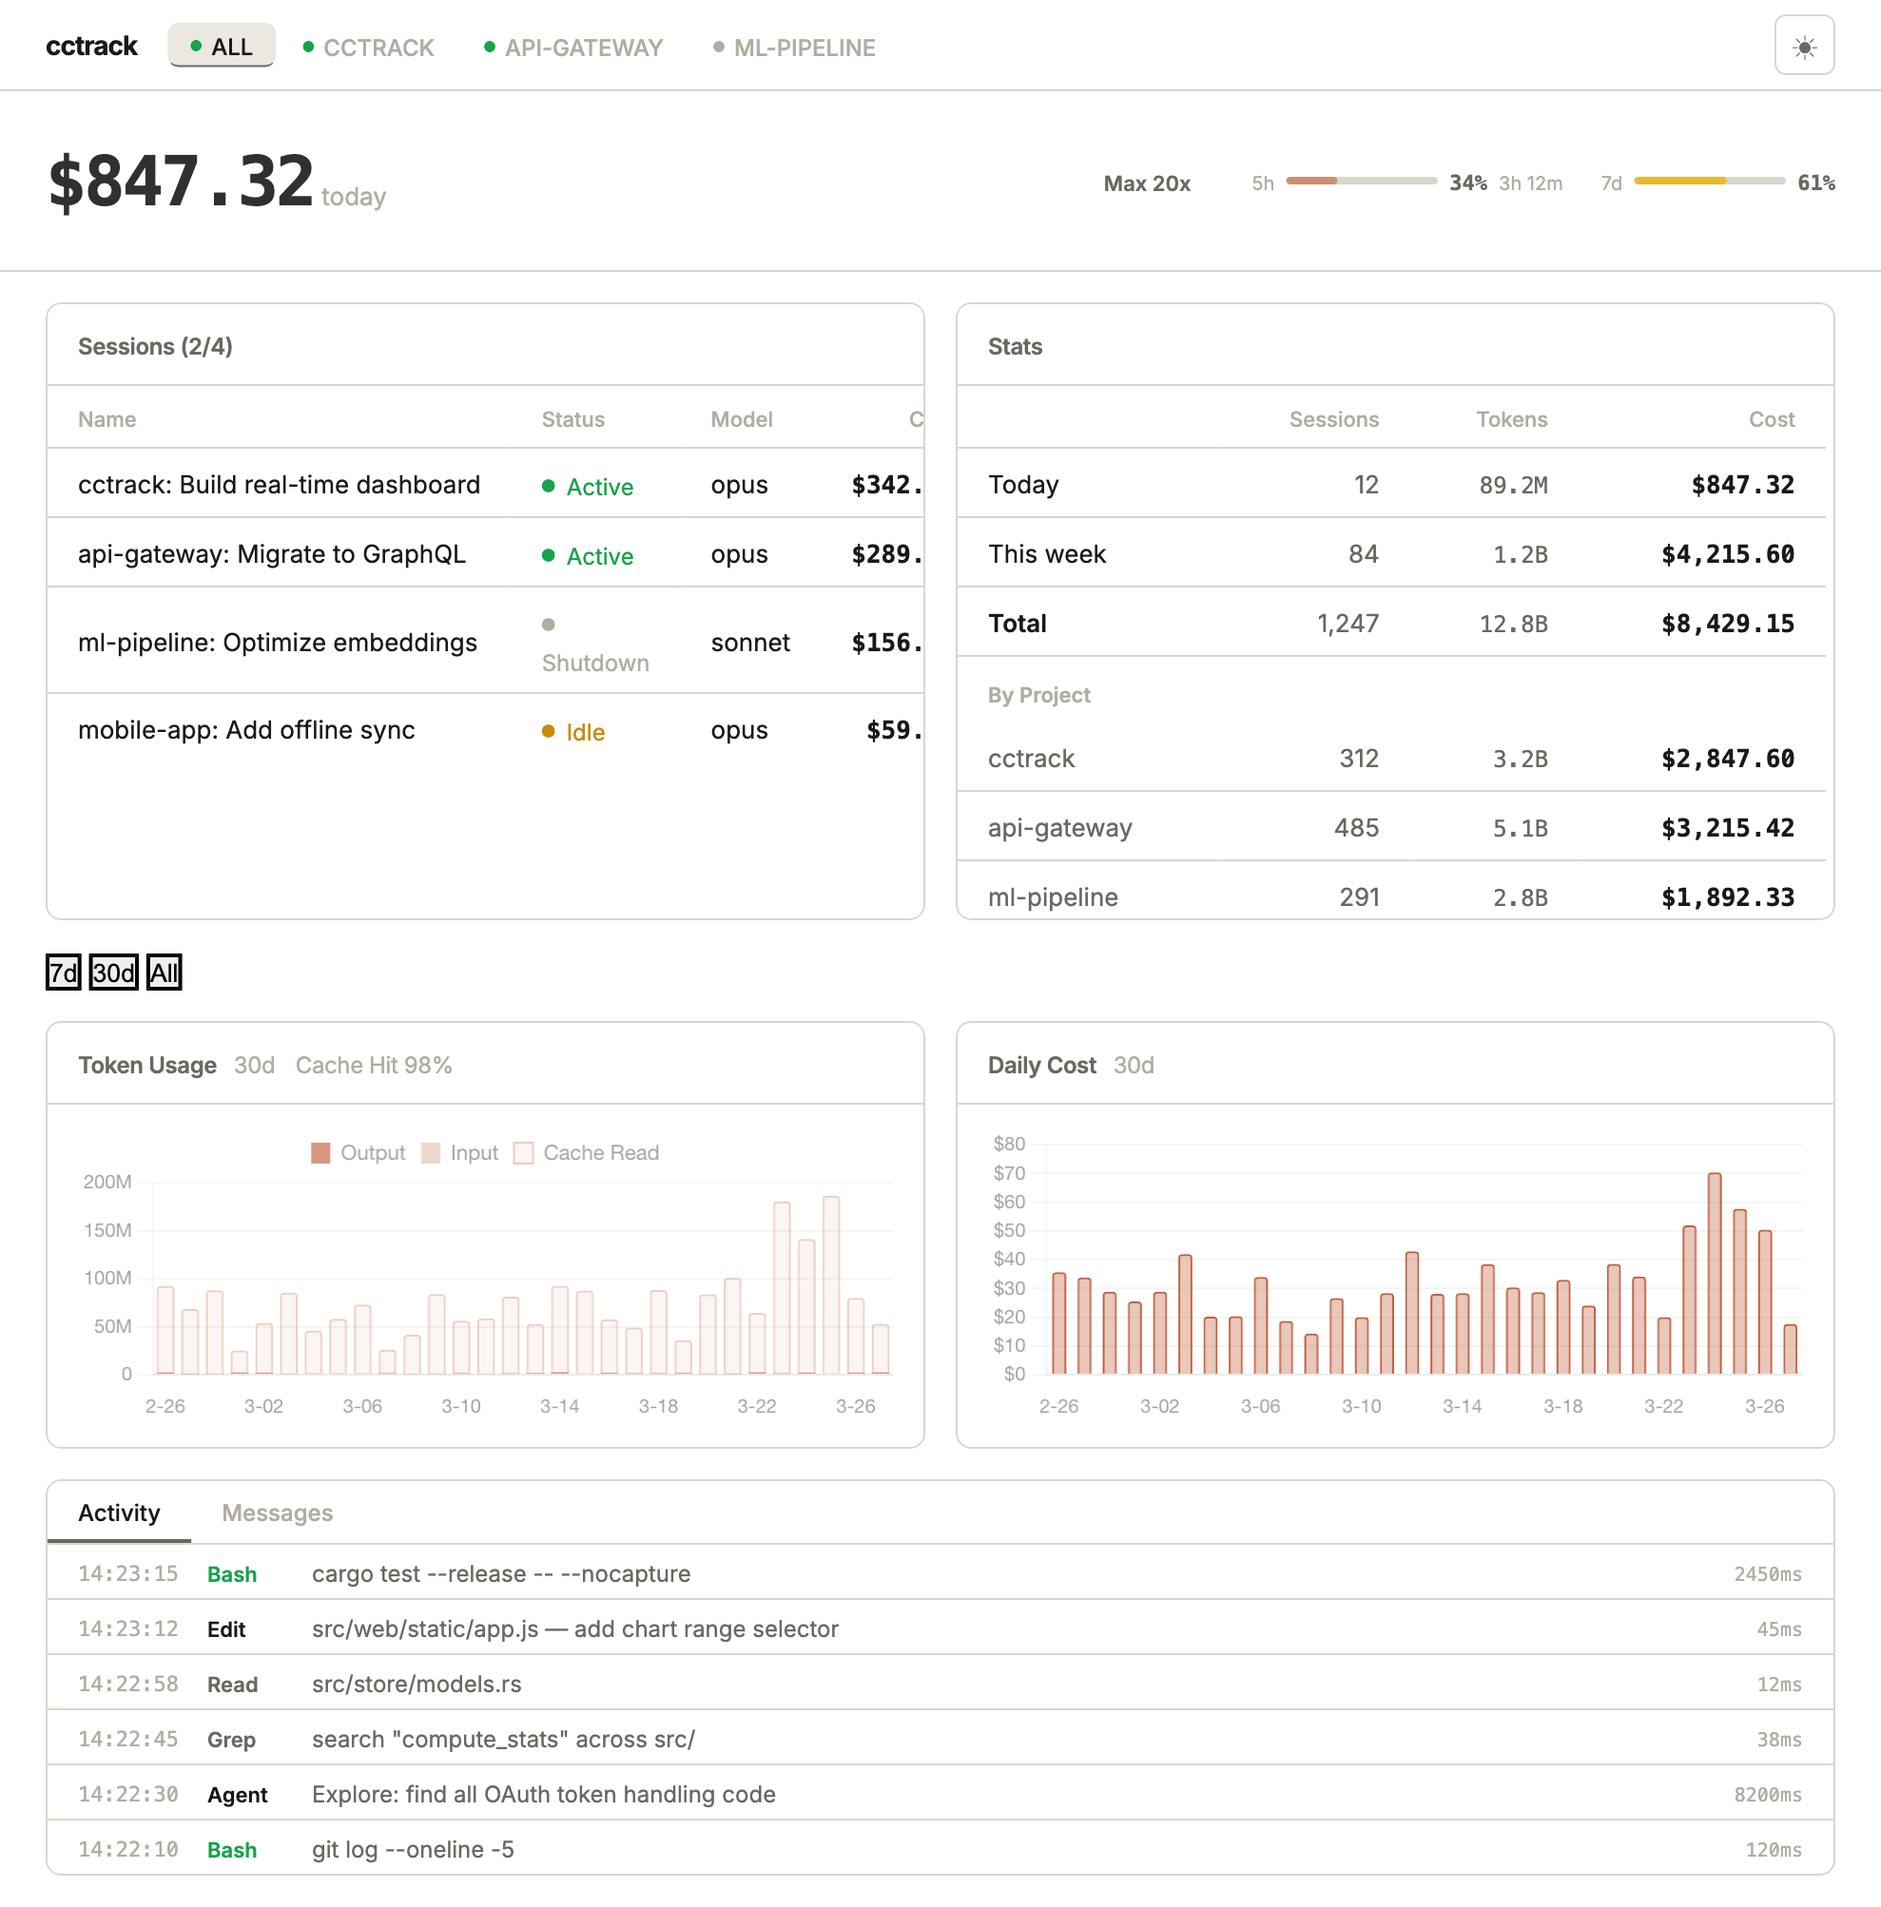
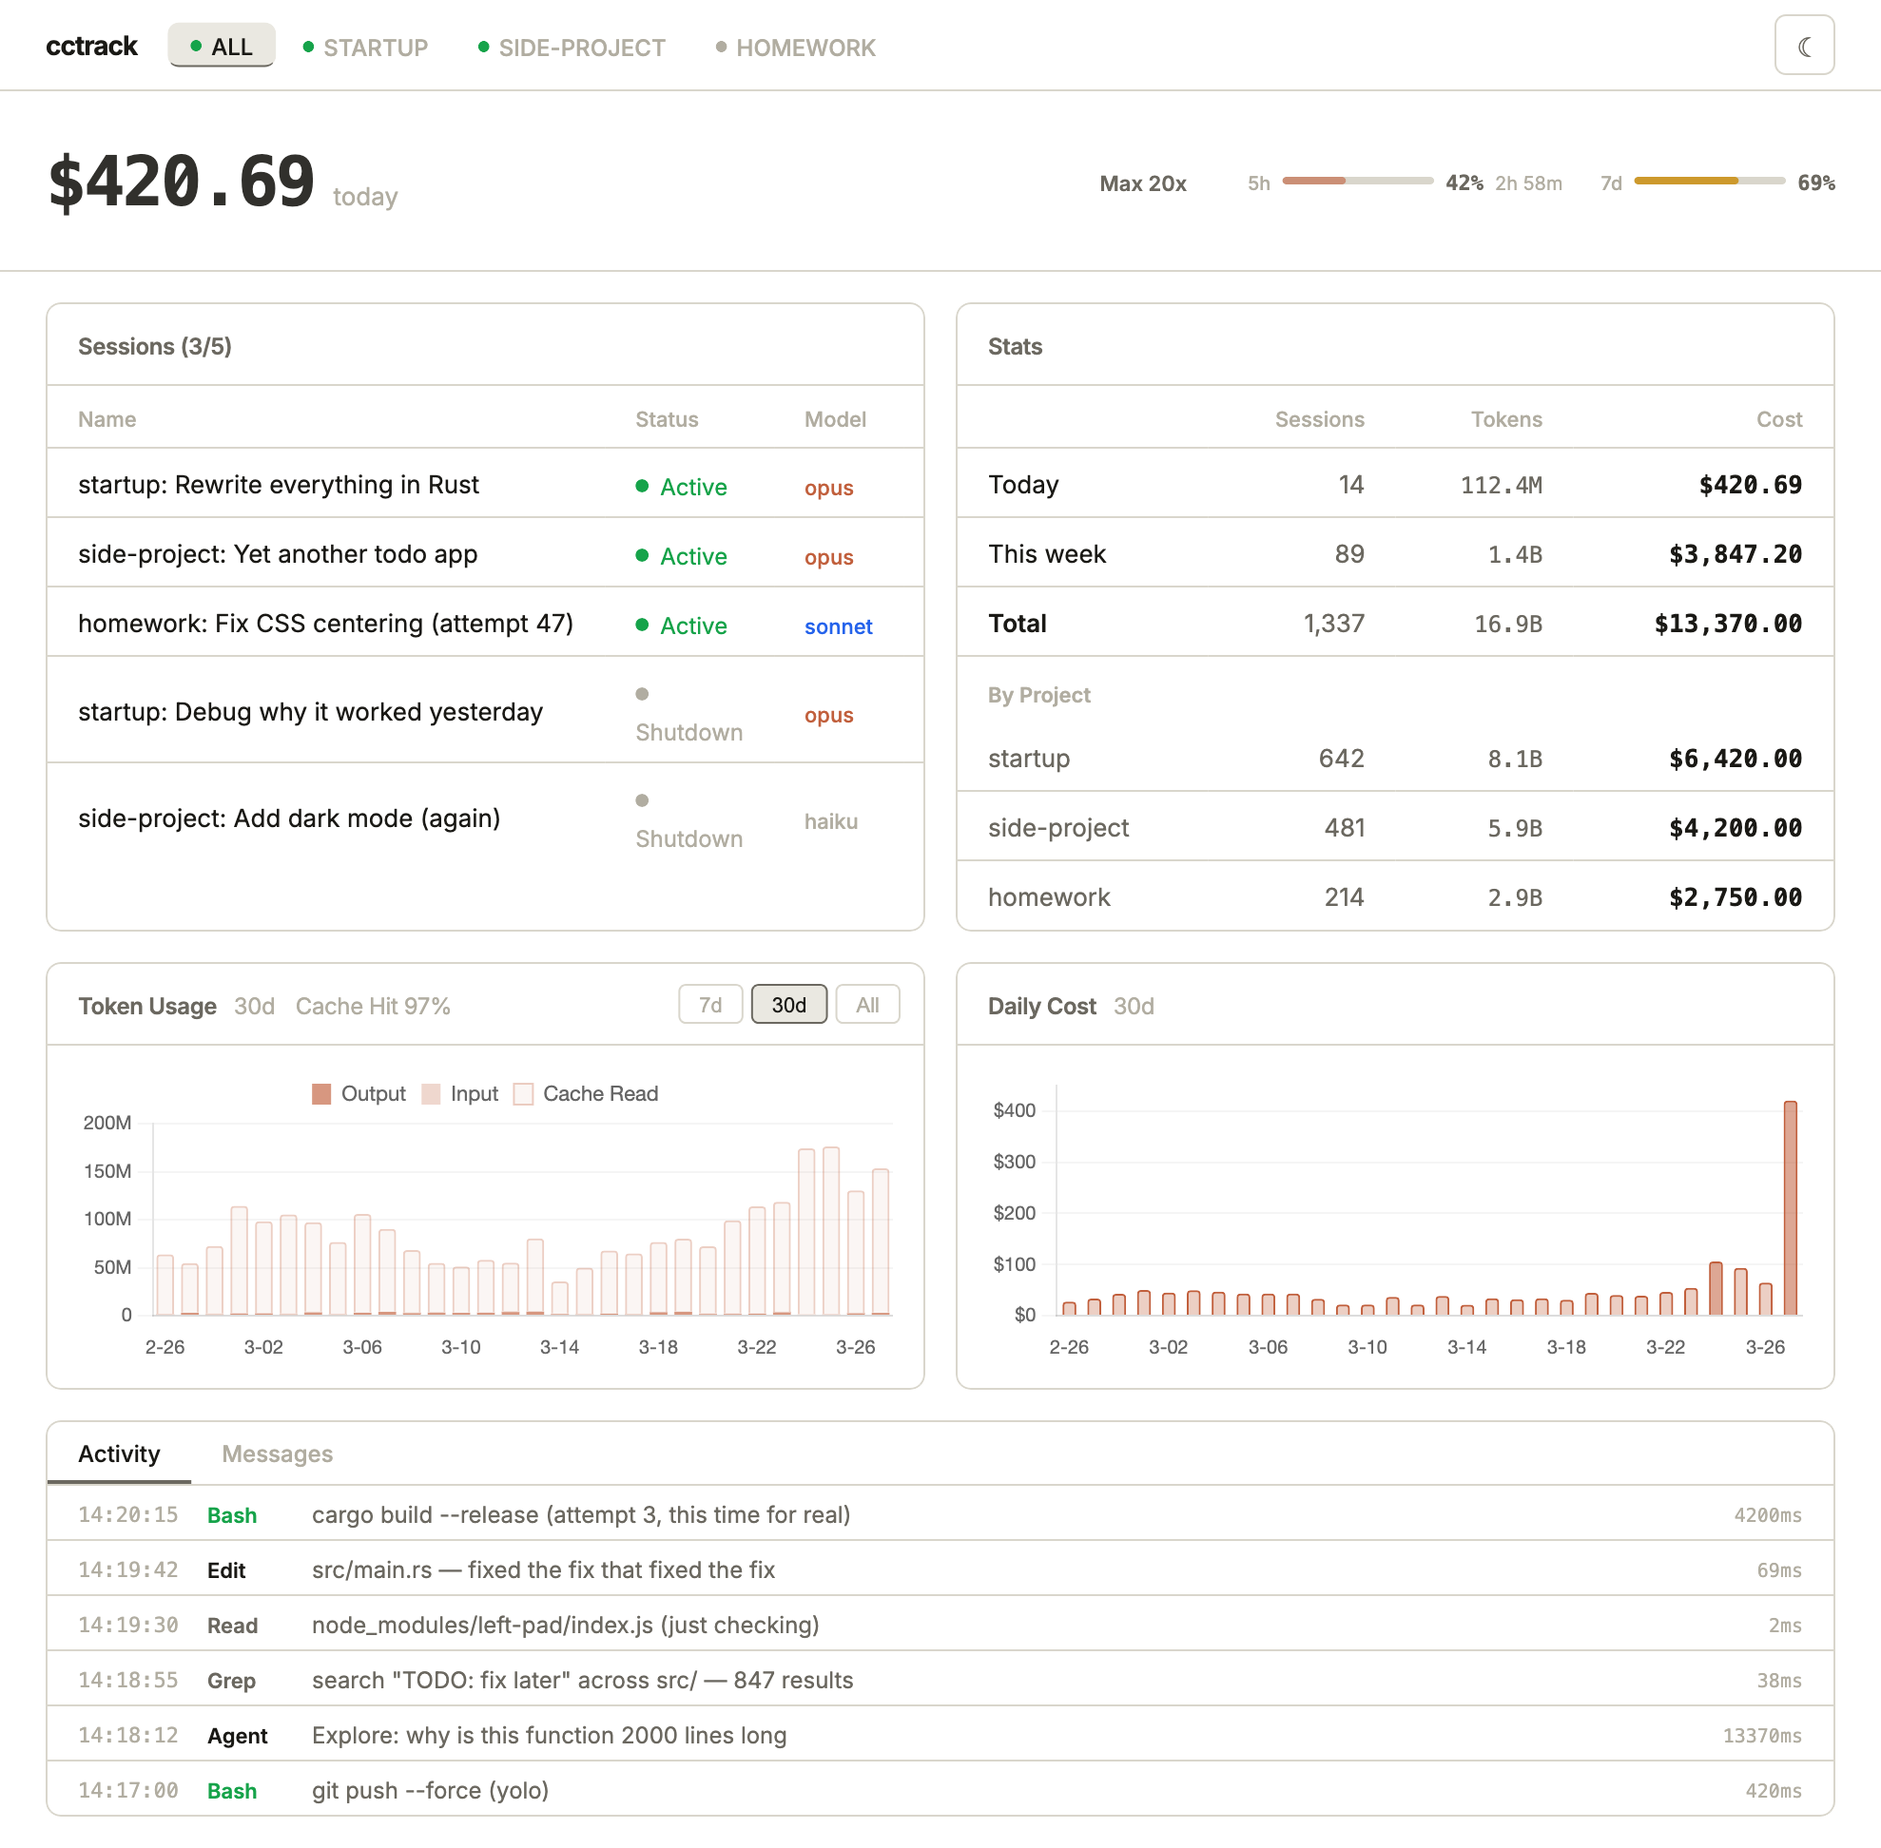
docs: .69 meme screenshot with full CSS + charts

diff --git a/assets/fake-demo.html b/assets/fake-demo.html
@@ -1,0 +1,168 @@
+<!DOCTYPE html>
+<html lang="en" data-theme="light">
+<head>
+<meta charset="UTF-8">
+<title>cctrack demo</title>
+<link href="https://fonts.googleapis.com/css2?family=Inter:wght@400;500;600;700;800&display=swap" rel="stylesheet">
+<style>
+:root{--bg:#F4F3EE;--bg-card:#FFF;--bg-hover:#EAE8E1;--border:#D9D6CC;--text:#1A1915;--text-2:#6B6860;--text-3:#B1ADA1;--accent:#C15F3C;--green:#16a34a;--yellow:#ca8a04;--red:#dc2626;--blue:#2563eb}
+*{margin:0;padding:0;box-sizing:border-box}
+body{background:var(--bg);color:var(--text);font-family:'Inter',system-ui,sans-serif;font-size:14px;line-height:1.5}
+.mono{font-family:'SF Mono','JetBrains Mono',monospace}
+.header{display:flex;align-items:center;gap:12px;padding:0 24px;height:48px;border-bottom:1px solid var(--border)}
+.logo{font-size:14px;font-weight:700;letter-spacing:-0.5px;margin-right:4px}
+.tabs{display:flex;gap:2px;flex:1}
+.tab{padding:4px 12px;border-radius:6px;border:none;background:transparent;color:var(--text-3);font-family:inherit;font-size:12px;font-weight:500;cursor:pointer}
+.tab.active{color:var(--text);background:var(--bg-hover);border-bottom:1px solid var(--text-2)}
+.dot{display:inline-block;width:6px;height:6px;border-radius:50%;margin-right:5px;vertical-align:middle}
+.dot.on{background:var(--green)}.dot.off{background:var(--text-3)}
+.hero{display:flex;align-items:center;justify-content:space-between;padding:20px 24px;border-bottom:1px solid var(--border)}
+.hero-main{display:flex;flex-direction:column;gap:2px}
+.hero-row{display:flex;align-items:baseline;gap:10px}
+.hero-number{font-size:36px;font-weight:800;letter-spacing:-1.5px;opacity:0.9}
+.hero-label{font-size:13px;color:var(--text-3)}
+.cap{display:flex;align-items:center;gap:10px}
+.cap-label{font-size:11px;font-weight:600;color:var(--text-2);margin-right:12px}
+.cap-seg{display:inline-flex;align-items:center;gap:6px;margin-left:10px}
+.cap-lbl{font-size:10px;color:var(--text-3);font-weight:500}
+.cap-track{width:80px;height:4px;background:var(--border);border-radius:2px;overflow:hidden}
+.cap-fill{height:100%;border-radius:2px;opacity:0.6}
+.cap-pct{font-size:11px;font-weight:600;color:var(--text-2)}
+.cap-reset{font-size:10px;color:var(--text-3)}
+.grid{display:grid;grid-template-columns:1fr 1fr;gap:16px;padding:16px 24px}
+.card{background:var(--bg-card);border:1px solid var(--border);border-radius:8px;overflow:hidden}
+.card-title{font-size:12px;font-weight:600;color:var(--text-2);padding:12px 16px;border-bottom:1px solid var(--border);letter-spacing:-0.2px}
+.subtitle{color:var(--text-3);font-weight:400;margin-left:6px}
+.span-full{grid-column:1/-1}
+table{width:100%;border-collapse:collapse}
+th{text-align:left;padding:8px 16px;font-size:11px;font-weight:500;color:var(--text-3);border-bottom:1px solid var(--border)}
+th.r{text-align:right}
+td{padding:8px 16px;font-size:13px;border-bottom:1px solid var(--border);color:var(--text)}
+td.r{text-align:right}
+td.dim{color:var(--text-2)}
+td.cost{font-weight:600;font-family:'SF Mono',monospace;font-size:13px}
+td.tok{color:var(--text-2);font-family:'SF Mono',monospace;font-size:12px}
+td.bold{font-weight:600}
+td.name{max-width:300px;overflow:hidden;text-overflow:ellipsis;white-space:nowrap}
+tr:last-child td{border-bottom:none}
+.dot-s{display:inline-block;width:7px;height:7px;border-radius:50%;margin-right:6px;vertical-align:middle}
+.dot-s.active{background:var(--green);box-shadow:0 0 6px rgba(34,197,94,0.4)}
+.dot-s.shutdown{background:var(--text-3)}
+.dot-s.idle{background:var(--yellow)}
+.st{font-size:12px}
+.st.active{color:var(--green)}.st.shutdown{color:var(--text-3)}.st.idle{color:var(--yellow)}
+.model-label{font-size:11px;font-weight:500}
+.model-opus{color:var(--accent)}.model-sonnet{color:var(--blue)}.model-haiku{color:var(--text-3)}
+.chart-box{padding:12px 16px;height:180px}
+.panel-header{display:flex;gap:0;border-bottom:1px solid var(--border)}
+.ptab{padding:8px 16px;border:none;background:transparent;color:var(--text-3);font-family:inherit;font-size:12px;font-weight:500;border-bottom:2px solid transparent}
+.ptab.active{color:var(--text);border-bottom-color:var(--text-2)}
+.feed{max-height:320px;overflow-y:auto}
+.fi{display:flex;align-items:center;gap:10px;padding:5px 16px;font-size:12px;border-bottom:1px solid var(--border)}
+.fi:last-child{border-bottom:none}
+.fi-t{color:var(--text-3);font-family:'SF Mono',monospace;font-size:11px;min-width:58px}
+.fi-tool{font-weight:600;min-width:45px;font-size:11px}
+.fi-s{flex:1;color:var(--text-2);overflow:hidden;text-overflow:ellipsis;white-space:nowrap}
+.fi-d{color:var(--text-3);font-family:'SF Mono',monospace;font-size:10px}
+.icon-btn{width:32px;height:32px;border-radius:6px;border:1px solid var(--border);background:transparent;color:var(--text-2);font-size:14px;cursor:pointer;display:flex;align-items:center;justify-content:center}
+.card-title-row{display:flex;align-items:center;justify-content:space-between;padding-right:12px;border-bottom:1px solid var(--border)}
+.card-title-row .card-title{border-bottom:none}
+.range-btn{padding:3px 10px;border-radius:4px;border:1px solid var(--border);background:transparent;color:var(--text-3);font-size:11px;font-weight:500;cursor:pointer}
+.range-btn.active{color:var(--text);background:var(--bg-hover);border-color:var(--text-2)}
+</style>
+</head>
+<body>
+<div id="app">
+<header class="header">
+  <span class="logo">cctrack</span>
+  <nav class="tabs">
+    <button class="tab active"><span class="dot on"></span>ALL</button>
+    <button class="tab"><span class="dot on"></span>STARTUP</button>
+    <button class="tab"><span class="dot on"></span>SIDE-PROJECT</button>
+    <button class="tab"><span class="dot off"></span>HOMEWORK</button>
+  </nav>
+  <button class="icon-btn">&#9790;</button>
+</header>
+
+<section class="hero">
+  <div class="hero-main"><div class="hero-row"><span class="hero-number mono">$420.69</span><span class="hero-label">today</span></div></div>
+  <div class="cap">
+    <span class="cap-label">Max 20x</span>
+    <span class="cap-seg"><span class="cap-lbl">5h</span><div class="cap-track"><div class="cap-fill" style="width:42%;background:var(--accent)"></div></div><span class="cap-pct mono">42%</span><span class="cap-reset">2h 58m</span></span>
+    <span class="cap-seg"><span class="cap-lbl">7d</span><div class="cap-track"><div class="cap-fill" style="width:69%;background:var(--yellow);opacity:0.8"></div></div><span class="cap-pct mono">69%</span></span>
+  </div>
+</section>
+
+<main class="grid">
+  <section class="card">
+    <h2 class="card-title">Sessions (3/5)</h2>
+    <table>
+      <thead><tr><th>Name</th><th>Status</th><th>Model</th><th class="r">Cost</th></tr></thead>
+      <tbody>
+        <tr><td class="name">startup: Rewrite everything in Rust</td><td><span class="dot-s active"></span><span class="st active">Active</span></td><td><span class="model-label model-opus">opus</span></td><td class="r cost">$186.42</td></tr>
+        <tr><td class="name">side-project: Yet another todo app</td><td><span class="dot-s active"></span><span class="st active">Active</span></td><td><span class="model-label model-opus">opus</span></td><td class="r cost">$142.07</td></tr>
+        <tr><td class="name">homework: Fix CSS centering (attempt 47)</td><td><span class="dot-s active"></span><span class="st active">Active</span></td><td><span class="model-label model-sonnet">sonnet</span></td><td class="r cost">$69.42</td></tr>
+        <tr><td class="name">startup: Debug why it worked yesterday</td><td><span class="dot-s shutdown"></span><span class="st shutdown">Shutdown</span></td><td><span class="model-label model-opus">opus</span></td><td class="r cost">$18.33</td></tr>
+        <tr><td class="name">side-project: Add dark mode (again)</td><td><span class="dot-s shutdown"></span><span class="st shutdown">Shutdown</span></td><td><span class="model-label model-haiku">haiku</span></td><td class="r cost">$4.45</td></tr>
+      </tbody>
+    </table>
+  </section>
+
+  <section class="card">
+    <h2 class="card-title">Stats</h2>
+    <table>
+      <thead><tr><th></th><th class="r">Sessions</th><th class="r">Tokens</th><th class="r">Cost</th></tr></thead>
+      <tbody>
+        <tr><td>Today</td><td class="r dim">14</td><td class="r tok">112.4M</td><td class="r cost">$420.69</td></tr>
+        <tr><td>This week</td><td class="r dim">89</td><td class="r tok">1.4B</td><td class="r cost">$3,847.20</td></tr>
+        <tr><td class="bold">Total</td><td class="r dim">1,337</td><td class="r tok">16.9B</td><td class="r cost">$13,370.00</td></tr>
+        <tr><td colspan="4" class="bold" style="padding-top:10px;border-bottom:none;font-size:11px;color:var(--text-3)">By Project</td></tr>
+        <tr><td class="dim">startup</td><td class="r dim">642</td><td class="r tok">8.1B</td><td class="r cost">$6,420.00</td></tr>
+        <tr><td class="dim">side-project</td><td class="r dim">481</td><td class="r tok">5.9B</td><td class="r cost">$4,200.00</td></tr>
+        <tr><td class="dim">homework</td><td class="r dim">214</td><td class="r tok">2.9B</td><td class="r cost">$2,750.00</td></tr>
+      </tbody>
+    </table>
+  </section>
+
+  <section class="card">
+    <div class="card-title-row">
+      <h2 class="card-title">Token Usage <span class="subtitle">30d</span> <span class="subtitle" style="margin-left:8px">Cache Hit 97%</span></h2>
+      <div style="display:flex;gap:4px"><button class="range-btn">7d</button><button class="range-btn active">30d</button><button class="range-btn">All</button></div>
+    </div>
+    <div class="chart-box"><canvas id="tok-chart"></canvas></div>
+  </section>
+
+  <section class="card">
+    <h2 class="card-title">Daily Cost <span class="subtitle">30d</span></h2>
+    <div class="chart-box"><canvas id="cost-chart"></canvas></div>
+  </section>
+
+  <section class="card span-full">
+    <div class="panel-header">
+      <button class="ptab active">Activity</button>
+      <button class="ptab">Messages</button>
+    </div>
+    <div class="feed">
+      <div class="fi"><span class="fi-t">14:20:15</span><span class="fi-tool" style="color:var(--green)">Bash</span><span class="fi-s">cargo build --release (attempt 3, this time for real)</span><span class="fi-d">4200ms</span></div>
+      <div class="fi"><span class="fi-t">14:19:42</span><span class="fi-tool">Edit</span><span class="fi-s">src/main.rs — fixed the fix that fixed the fix</span><span class="fi-d">69ms</span></div>
+      <div class="fi"><span class="fi-t">14:19:30</span><span class="fi-tool" style="color:var(--text-2)">Read</span><span class="fi-s">node_modules/left-pad/index.js (just checking)</span><span class="fi-d">2ms</span></div>
+      <div class="fi"><span class="fi-t">14:18:55</span><span class="fi-tool" style="color:var(--text-2)">Grep</span><span class="fi-s">search "TODO: fix later" across src/ — 847 results</span><span class="fi-d">38ms</span></div>
+      <div class="fi"><span class="fi-t">14:18:12</span><span class="fi-tool">Agent</span><span class="fi-s">Explore: why is this function 2000 lines long</span><span class="fi-d">13370ms</span></div>
+      <div class="fi"><span class="fi-t">14:17:00</span><span class="fi-tool" style="color:var(--green)">Bash</span><span class="fi-s">git push --force (yolo)</span><span class="fi-d">420ms</span></div>
+    </div>
+  </section>
+</main>
+</div>
+
+<script src="https://cdn.jsdelivr.net/npm/chart.js@4/dist/chart.umd.min.js"></script>
+<script>
+var labels=[],tokC=[],tokI=[],tokO=[],costs=[];
+for(var i=29;i>=0;i--){var d=new Date();d.setDate(d.getDate()-i);labels.push((d.getMonth()+1)+'-'+String(d.getDate()).padStart(2,'0'));var b=40+Math.random()*60+Math.sin(i/3)*20;tokC.push(Math.round(b*1e6));tokI.push(Math.round((Math.random()*0.8+0.2)*1e6));tokO.push(Math.round((Math.random()*3+1)*1e6));costs.push(Math.round((b*0.4+Math.random()*15)*100)/100);}
+for(var j=25;j<30;j++){tokC[j]=Math.round(tokC[j]*1.8);costs[j]=Math.round(costs[j]*2*100)/100;}
+costs[29]=420.69;
+var gc='rgba(0,0,0,0.04)',fmt=function(v){if(v>=1e9)return(v/1e9).toFixed(1)+'B';if(v>=1e6)return(v/1e6).toFixed(0)+'M';return v;};
+new Chart(document.getElementById('tok-chart'),{type:'bar',data:{labels:labels,datasets:[{label:'Cache Read',data:tokC,backgroundColor:'rgba(193,95,60,0.06)',borderColor:'rgba(193,95,60,0.3)',borderWidth:1,borderDash:[3,3],borderRadius:2,order:3},{label:'Input',data:tokI,backgroundColor:'rgba(193,95,60,0.25)',borderRadius:2,order:2},{label:'Output',data:tokO,backgroundColor:'rgba(193,95,60,0.65)',borderRadius:2,order:1}]},options:{responsive:true,maintainAspectRatio:false,plugins:{legend:{position:'top',labels:{boxWidth:10,padding:8,font:{size:11}}}},scales:{x:{stacked:true,grid:{display:false},ticks:{font:{size:10},maxRotation:0,maxTicksLimit:8}},y:{stacked:true,grid:{color:gc},ticks:{font:{size:10},callback:fmt}}}}});
+new Chart(document.getElementById('cost-chart'),{type:'bar',data:{labels:labels,datasets:[{data:costs,backgroundColor:costs.map(function(c){return c>100?'rgba(193,95,60,0.55)':'rgba(193,95,60,0.3)';}),borderColor:'#C15F3C',borderWidth:1,borderRadius:2,barPercentage:0.7}]},options:{responsive:true,maintainAspectRatio:false,plugins:{legend:{display:false}},scales:{x:{grid:{display:false},ticks:{font:{size:10},maxRotation:0,maxTicksLimit:8}},y:{grid:{color:gc},ticks:{font:{size:10},callback:function(v){return '$'+v;}}}}}});
+</script>
+</body>
+</html>
